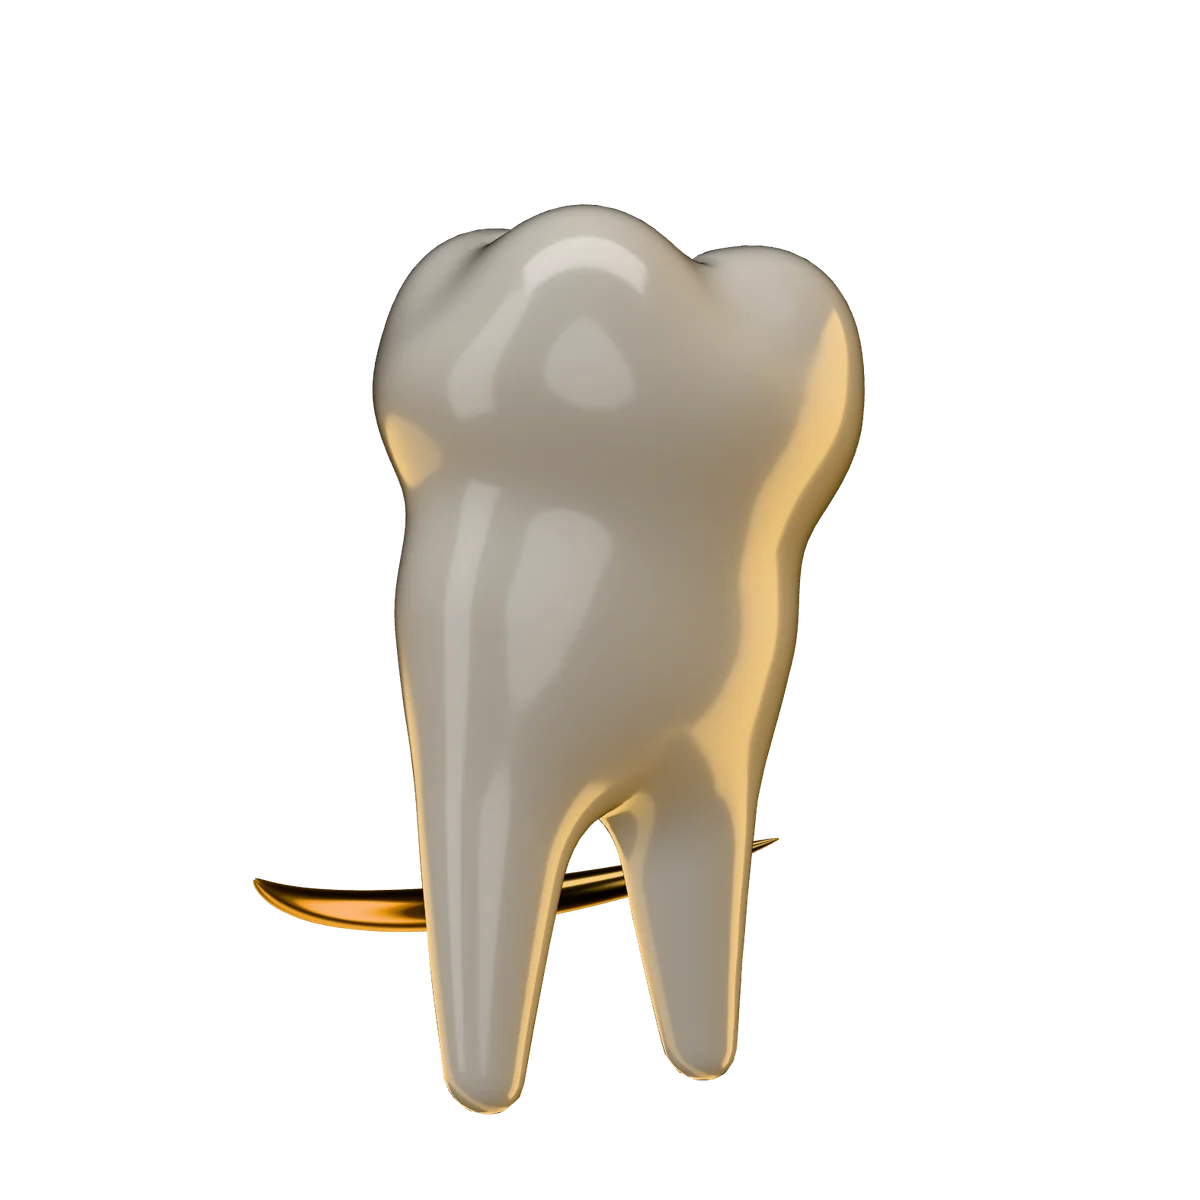
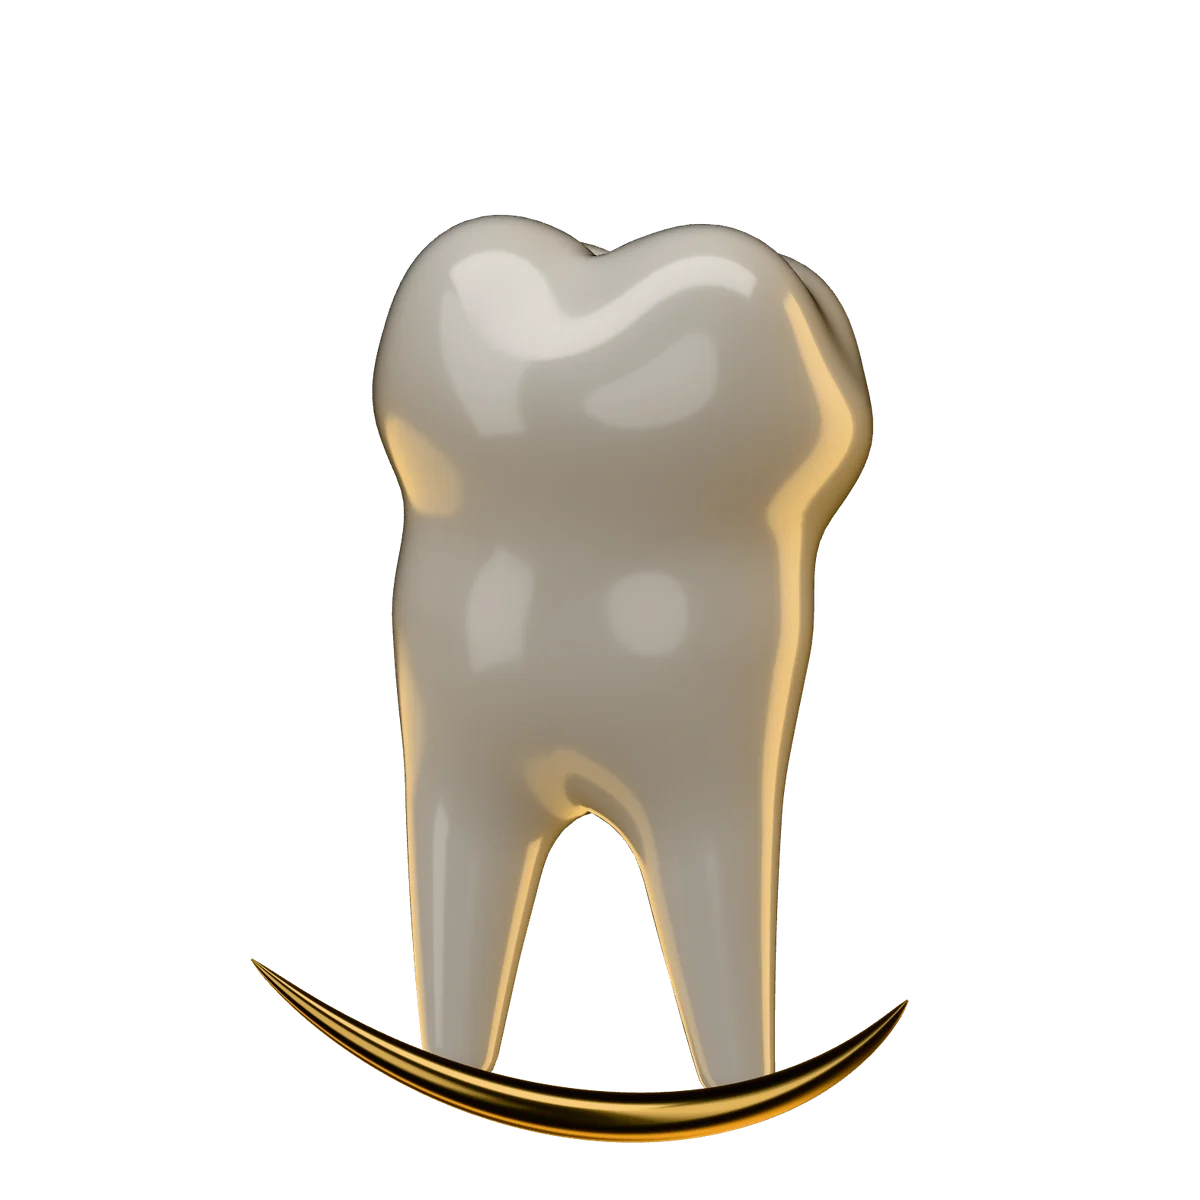
Popravke početne: zub okrenut sa zlatnim osmijehom naprijed, naslov na telefonu
- zub zakrenut tako da se vidi zlatni osmijeh ispred korijena (kao u logotipu), novi poster
- na telefonu zub manji i iznad naslova, bez efekta invertovanja koji je kvario naslov

Changed region(s): [[0.2158, 0.1542, 0.7708, 0.9558], [0.4317, 0.555, 0.4625, 0.5858]]

diff --git a/src/app/page.tsx b/src/app/page.tsx
@@ -31,13 +31,13 @@ export default function Home() {
           aria-hidden
           className="absolute inset-0 -z-10 bg-[radial-gradient(55%_50%_at_66%_40%,rgb(201_163_92/0.18),transparent_70%)]"
         />
-        <HeroTooth className="absolute inset-x-0 top-[7svh] h-[56svh] lg:inset-y-0 lg:left-[28%] lg:right-[-6%] lg:top-0 lg:h-auto" />
+        <HeroTooth className="absolute inset-x-0 top-[9svh] h-[38svh] lg:inset-y-0 lg:left-[28%] lg:right-[-6%] lg:top-0 lg:h-auto" />
 
         <div className="shell relative flex min-h-[100svh] flex-col justify-end pb-10 pt-32 lg:pb-14">
           <p className="eyebrow hero-fade max-sm:hidden">Stomatološka ordinacija, Kakanj</p>
           <h1
             id="hero-title"
-            className="type-display lines-hero mt-6 text-[clamp(3.3rem,10.6vw,12rem)] mix-blend-difference"
+            className="type-display lines-hero mt-6 text-[clamp(3.3rem,10.6vw,12rem)] lg:mix-blend-difference"
           >
             <Lines lines={['Osmijeh', 'koji traje.']} />
           </h1>

diff --git a/src/components/three/ToothScene.tsx b/src/components/three/ToothScene.tsx
@@ -23,7 +23,7 @@ import {
 import { buildSmileGeometry } from './smile';
 
 const SMILE_ARC = Math.PI * 0.62;
-const SPIN_START = 0.6;
+const SPIN_START = -0.35;
 const GOLD = '#c9a35c';
 
 type Panel = { color: string; intensity: number; at: [number, number, number]; size: [number, number]; ring?: number };
@@ -101,8 +101,8 @@ export default function ToothScene({ className, onReady }: { className?: string;
       buildSmileGeometry(SMILE_ARC),
       new MeshStandardMaterial({ color: GOLD, metalness: 1, roughness: 0.2, envMapIntensity: 1.6 }),
     );
-    smile.position.set(0.04, -0.34, 0.14);
-    smile.rotation.set(1.15, 0, -Math.PI / 2 - SMILE_ARC / 2);
+    smile.position.set(0.04, -0.3, 0.62);
+    smile.rotation.set(0.55, 0, -Math.PI / 2 - SMILE_ARC / 2);
     smile.scale.setScalar(0.92);
     group.add(tooth, smile);
 
